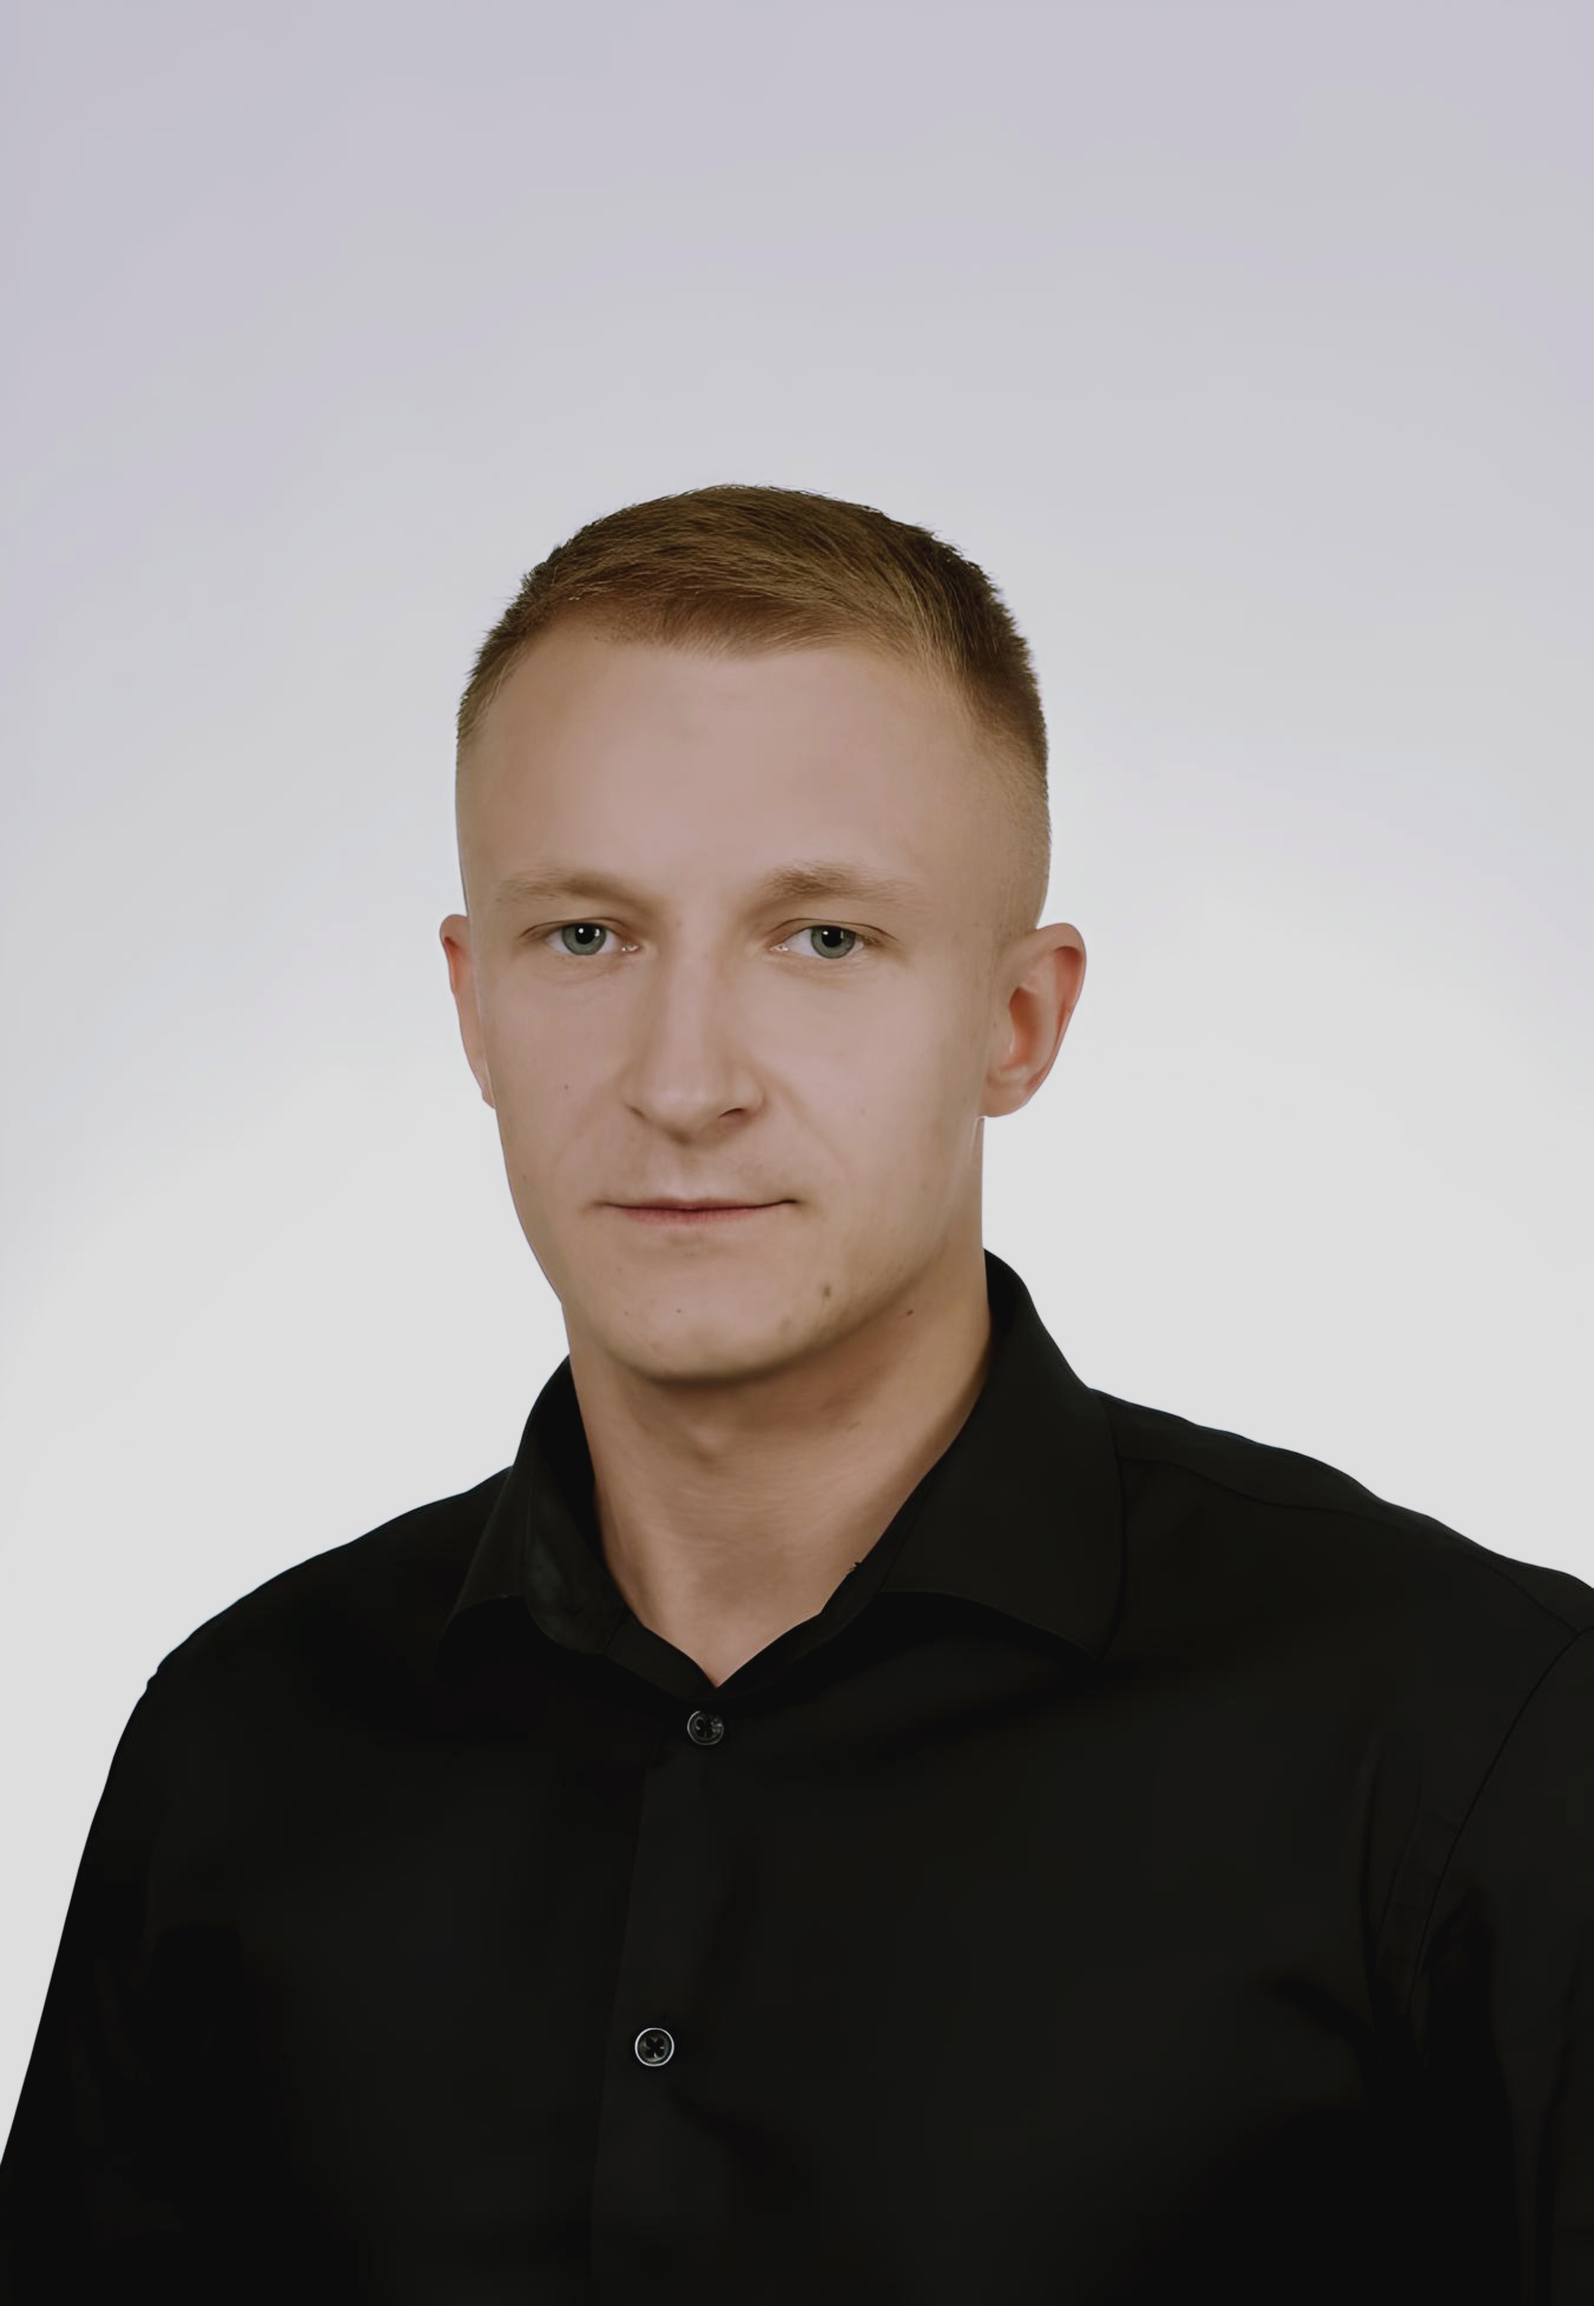
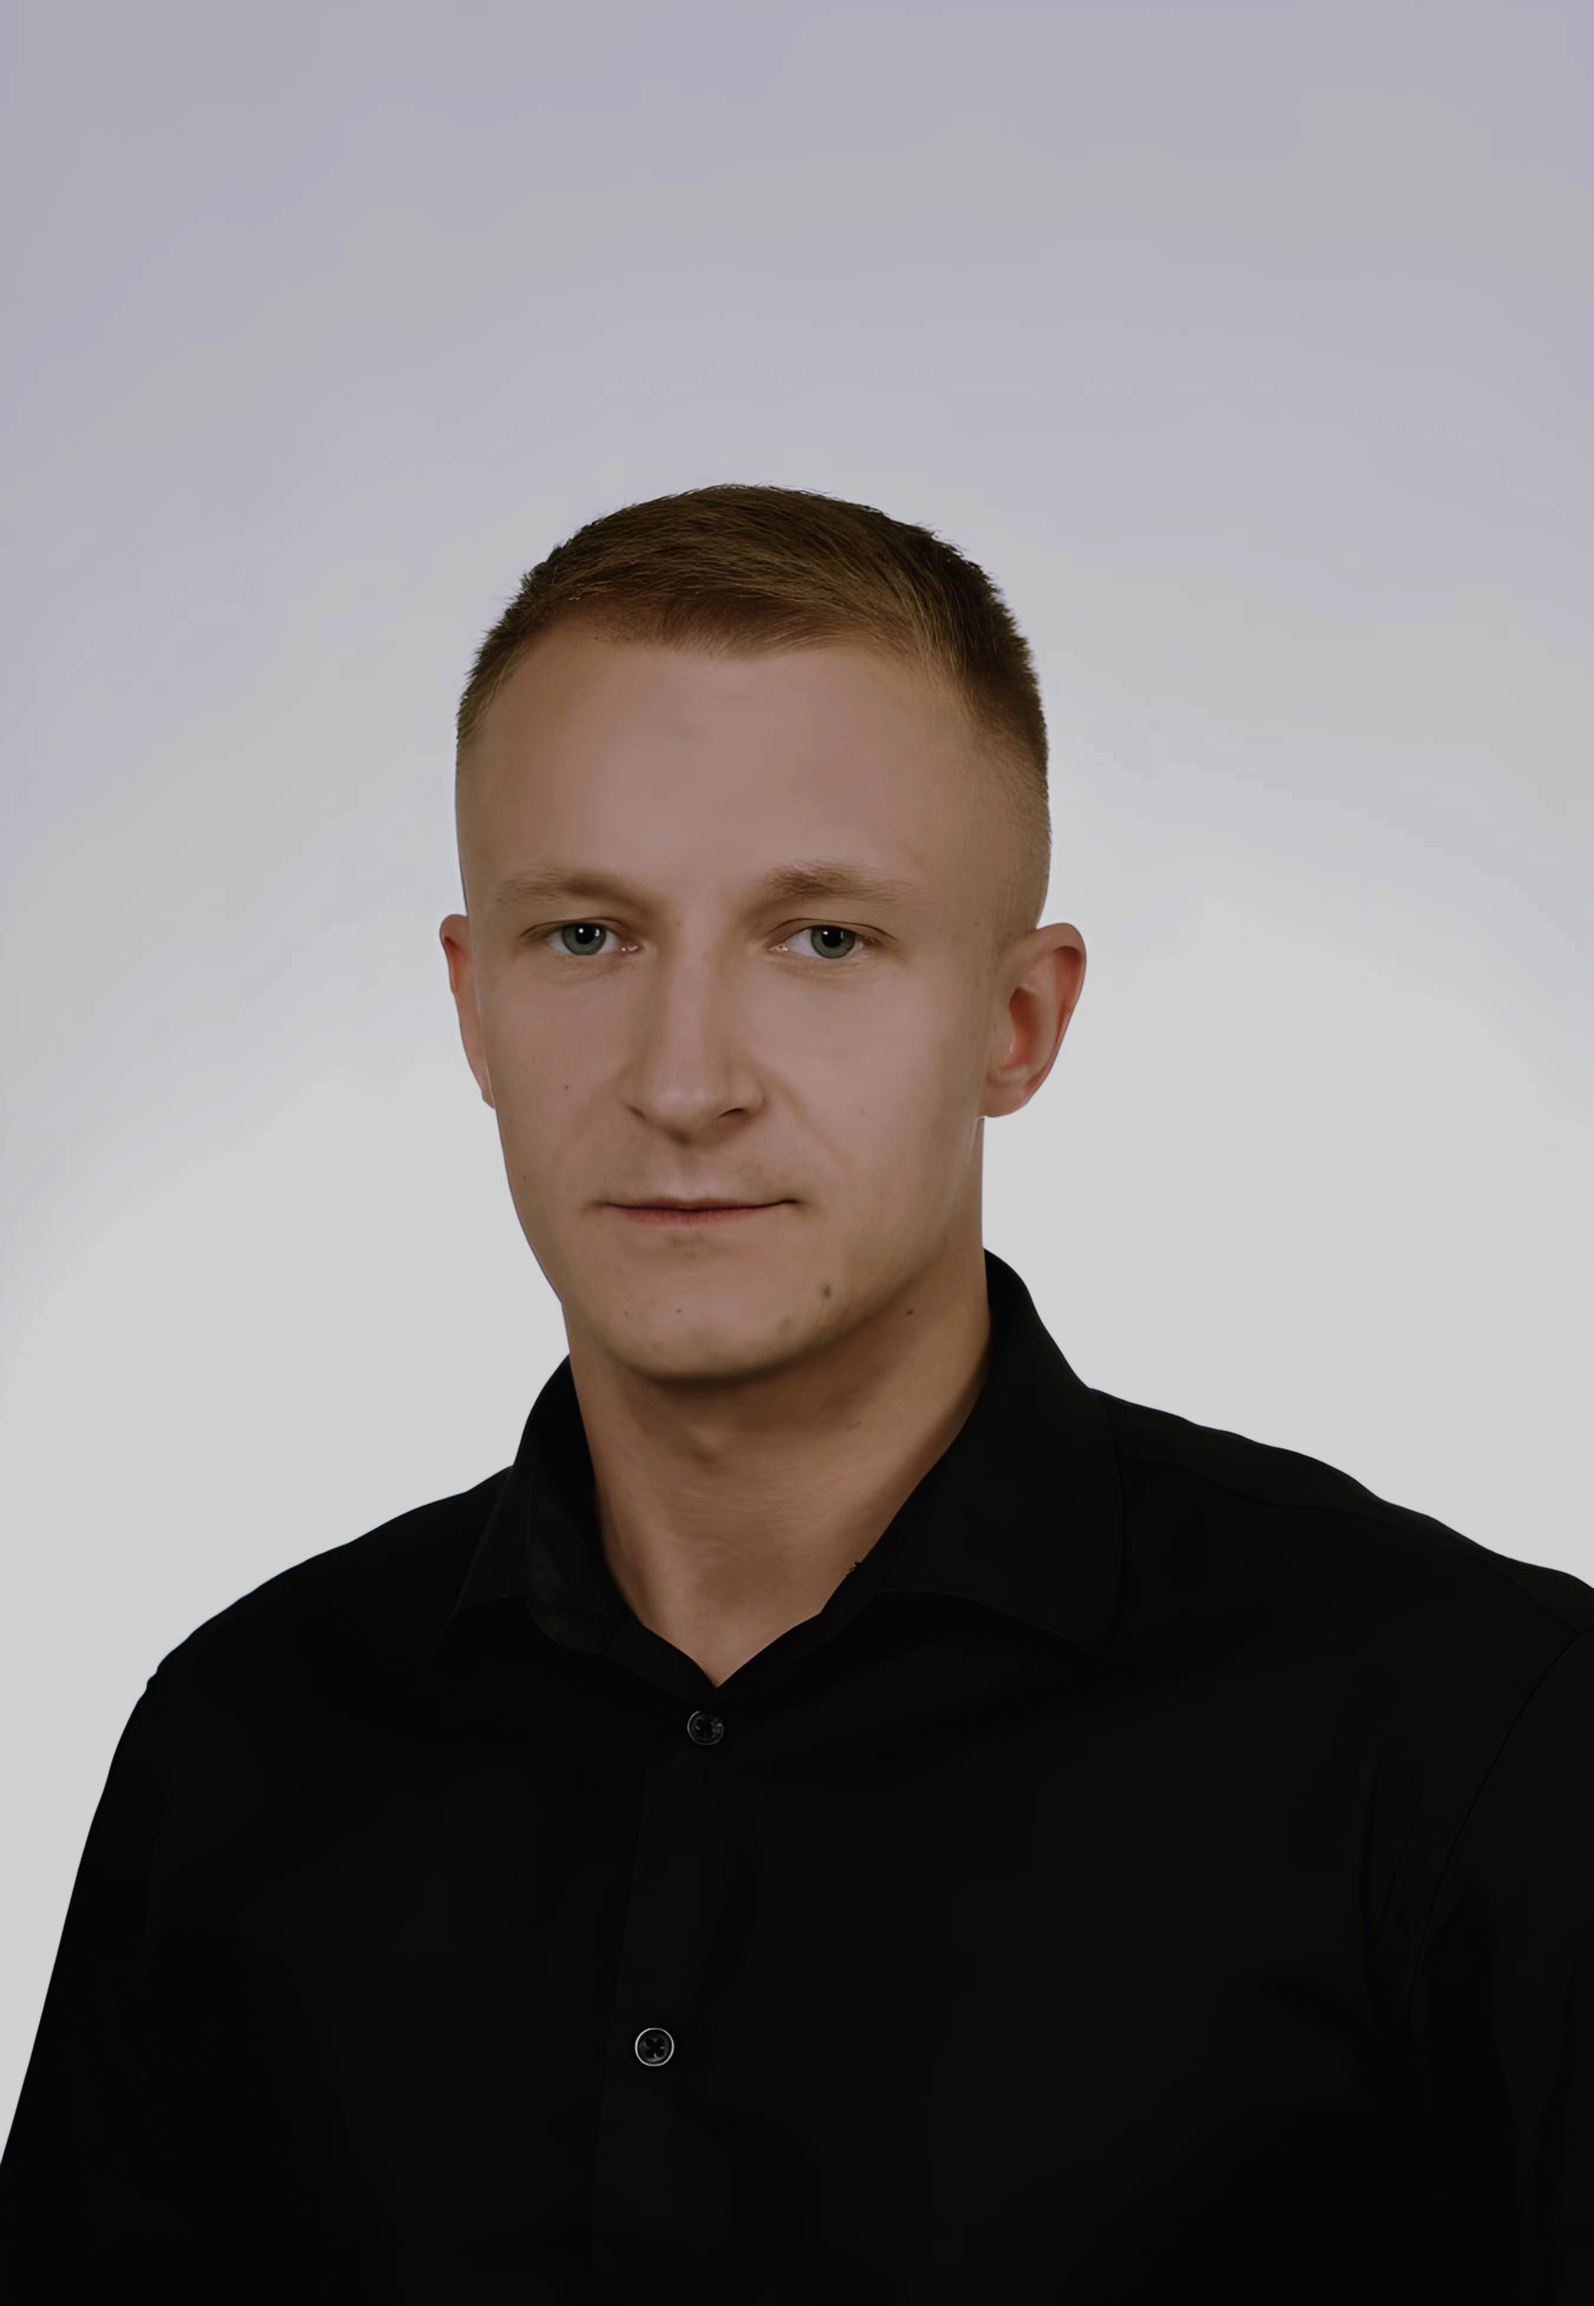
finish amination card

Changed region(s): [[0.2799, 0.1875, 0.6843, 0.75]]

diff --git a/index.html b/index.html
@@ -12,15 +12,16 @@
     <div class="nav-container">
         <h2 class="title">Port<span>folio</span></h2>
         <ul>
-            <li>Home</li>
-            <li>About</li>
-            <li>Projects</li>
-            <li>Contact</li>
+            <li><a href="#section-1">Home</a></li>
+            <li><a href="#section-2">About</a></li>
+            <li><a href="#section-3">Projects</a></li>
+            <li><a href="#section-4">Contact</a></li>
+            
         </ul>
     </div>
   </header>
   <!-- Home section -->
-    <section>
+    <section id="section-1">
       <div class="home-container">
         <div class="intorduce">
           <h2>Hello<br><span>My name is</span><br>Bartłomiej Pawlik <br>And I`m <span>Web Deweloper</span></h2>
@@ -33,7 +34,7 @@
     </section>
 <!-- About section -->
 
-<section>
+<section id="section-2">
   <div class="about-section">
     <div class="img-container">
       <img width="597px" height="600px" src="imgs/About.png" alt="">
@@ -50,7 +51,7 @@
   </div>
 </section>
 <!-- Projects section -->
-<section>
+<section id="section-3">
   <div class="project-section">
     <div class="project-titles">
       <h2 class="title"><span>My</span> Projects</h2>
@@ -77,37 +78,77 @@
       <a><i class="fa-solid fa-angles-right"></i></a>
 
     </div>
+    
   </div>
+  
 </section>
 
 <!-- Contact section -->
-<section>
+
+<section id="section-4">
+
  <div class="container">
   <div class="title-contact"> <h2 >Contact Me</h2></div>
+  
+
   <div class="contact-section">  
     <div class="img-container">
-      <img height="597px" width="600px" src="imgs/home.jpg" alt="">
+      <img height="597px" width="600px" src="imgs/contact1.jpg" alt="">
     </div>
+  
     <div class="contact-container">  
-      <div class="github panel">
-        <i class="fa-brands fa-github"></i>
-        <a href="https://github.com/BartekPawlik?tab=repositories"></a>
+      <div class="card">
+        <div class="card-inner">
+          <div class="card-face card-face-front"> 
+            <i class="fa-brands fa-github"></i>
+          </div>
+          <div class="card-face card-face-back">s
+            <!-- <a href="https://github.com/BartekPawlik?tab=repositories">My<br>Github</a> -->
+           </div>
+          </div>
       </div>
-      <div class="email panel">
-        <i class="fa-solid fa-envelope"></i>
+     
+    <div class="card">
+      <div class="card-inner">
+        <div class="card-face card-face-front">
+          <i class="fa-solid fa-envelope"></i>
+           </div>
+           <div class="card-face card-face-back">s
         <!-- <p>pawlikbartlomiej98@gmail.com</p> -->
-         </div>
-         
-      <div class="linkedin panel">
+           </div>
+       </div> 
+    </div>
+
+    
+    
+    <div class="card">
+      <div class="card-inner">
+        <div class="card-face card-face-front">
         <i class="fa-brands fa-linkedin"></i>
-        <a href="https://www.linkedin.com/in/bartek-pawlik-b45956271/"></a>
+     </div>
+     <div class="card-face card-face-back">
+      <!-- <a href="https://www.linkedin.com/in/bartek-pawlik-b45956271/">MY<br>Linkdin</a> -->
+
+     </div>
+    </div>
+         
+    
+
 
       </div>
-
-      <div class="phone panel">
-        <i class="fa-solid fa-phone"></i>
-        <!-- <p>+48570435892</p> -->
+      <div class="card">
+        <div class="card-inner">
+          <div class="card-face card-face-front">
+            <i class="fa-solid fa-phone"></i>
+          </div>
+          <div class="card-face card-face-back">s
+          <!-- <p>+48570435892</p> -->
+            
+          </div>
+        </div>
       </div>
+
+  
       
     </div>
 
@@ -116,10 +157,11 @@
  
     
     
+    
   
 </section>
 
-<section>
+<section >
   <div class="footer-section">
     <div class="box-container">s</div>
   </div>

diff --git a/style.scss b/style.scss
@@ -7,6 +7,10 @@
     justify-content: space-between;
     align-items: center;
 }
+html{
+    scroll-behavior: smooth;
+    scroll-padding-top: 12rem;
+}
 
 @mixin flexbox{
     display: flex;
@@ -20,6 +24,9 @@
     margin: 0;
     background-color: black;
     font-family: sans-serif;
+}
+a{
+    text-decoration: none;
 }
 body{
     width: 100%;
@@ -53,10 +60,13 @@ section{
             margin: 10px;
             font-size: 2rem;
             cursor: pointer;
+         a{
             transition: 0.2s ease-in-out;
+            color: white;
             &:hover{
                 color: crimson;
             }
+         }
         }
     }
 }
@@ -240,38 +250,58 @@ section{
                 gap: 15px;
 
                
-                .panel{
-                    width: 300px;
-                    height: 300px;
-                    display: flex;          
-                    flex-direction: column;
-                    justify-content: center;
-                    align-items: center;
-                    border-radius: 0px;
-                    text-decoration: none;
-                    font-size: 1.6rem;
-                    transition: 0.2s ease-in-out;
-                    background-color: crimson;
+                .card-inner{
+                    width: 100%;
+                    height: 100%;
+                    transition: transform 1s;
+                    transform-style: preserve-3d;
                     cursor: pointer;
-                 
+                    position: relative;
+                    
+                    
                     
                    
-                    p,i,a{
-                        font-size: 3rem;
-                        background-color: transparent;
-                        background-color: transparent;
-                        text-decoration: none;
-                       color: white;
-                        padding: 2px;
-                        background-color: inherit;
-                    }
-                   
+                    
+                    
+                    
+                    
+                 
+                      .card-face {
+                        position: absolute;
+                        width: 100%;
+                        height: 100%;
+                        -webkit-backface-visibility: hidden;
+                        backface-visibility: hidden;
+                        overflow: hidden;
+                        border-radius: 16px;
+                        box-shadow: 0px 3px 18px 3px rgba(255, 0, 0, 0.2);
+                      }
+                 
+                      .card-face-front {
+                        background-color: crimson;
+                        display: flex;
+                        align-items: center;
+                        justify-content: center;
+                      }
+                      .card-face-back{
+                        background-color: gray;
+                        transform: rotateY(180deg);
+                      }
                   }
                 
            
               
              
-              
+                  p,i,a{
+                    font-size: 3rem;
+                    background-color: transparent;
+                    background-color: transparent;
+                    text-decoration: none;
+                   color: white;
+                    padding: 2px;
+                    background-color: inherit;
+                }
+               
             }
             img{
                 border-radius: 10px;
@@ -281,6 +311,9 @@ section{
    }
  
 
+   .is-flipped {
+    transform: rotateY(180deg);
+  }
 
 
    .footer-section{

diff --git a/style.css b/style.css
@@ -1,9 +1,18 @@
+html {
+  scroll-behavior: smooth;
+  scroll-padding-top: 12rem;
+}
+
 * {
   box-sizing: border-box;
   padding: 0;
   margin: 0;
   background-color: black;
   font-family: sans-serif;
+}
+
+a {
+  text-decoration: none;
 }
 
 body {
@@ -37,9 +46,12 @@ section {
   margin: 10px;
   font-size: 2rem;
   cursor: pointer;
-  transition: 0.2s ease-in-out;
 }
-.nav-container ul li:hover {
+.nav-container ul li a {
+  transition: 0.2s ease-in-out;
+  color: white;
+}
+.nav-container ul li a:hover {
   color: crimson;
 }
 
@@ -215,21 +227,34 @@ section {
   font-size: 1rem;
   gap: 15px;
 }
-.container .contact-section .contact-container .panel {
-  width: 300px;
-  height: 300px;
-  display: flex;
-  flex-direction: column;
-  justify-content: center;
-  align-items: center;
-  border-radius: 0px;
-  text-decoration: none;
-  font-size: 1.6rem;
-  transition: 0.2s ease-in-out;
-  background-color: crimson;
+.container .contact-section .contact-container .card-inner {
+  width: 100%;
+  height: 100%;
+  transition: transform 1s;
+  transform-style: preserve-3d;
   cursor: pointer;
+  position: relative;
 }
-.container .contact-section .contact-container .panel p, .container .contact-section .contact-container .panel i, .container .contact-section .contact-container .panel a {
+.container .contact-section .contact-container .card-inner .card-face {
+  position: absolute;
+  width: 100%;
+  height: 100%;
+  backface-visibility: hidden;
+  overflow: hidden;
+  border-radius: 16px;
+  box-shadow: 0px 3px 18px 3px rgba(255, 0, 0, 0.2);
+}
+.container .contact-section .contact-container .card-inner .card-face-front {
+  background-color: crimson;
+  display: flex;
+  align-items: center;
+  justify-content: center;
+}
+.container .contact-section .contact-container .card-inner .card-face-back {
+  background-color: gray;
+  transform: rotateY(180deg);
+}
+.container .contact-section .contact-container p, .container .contact-section .contact-container i, .container .contact-section .contact-container a {
   font-size: 3rem;
   background-color: transparent;
   background-color: transparent;
@@ -241,6 +266,10 @@ section {
 .container .contact-section img {
   border-radius: 10px;
   border: 3px solid crimson;
+}
+
+.is-flipped {
+  transform: rotateY(180deg);
 }
 
 .footer-section .box-container {

diff --git a/app.js b/app.js
@@ -37,7 +37,8 @@ const leftArrow = document.querySelector(".fa-angles-left")
 const projectbox = document.querySelector(".imgs-container")
 const projectTitle = document.querySelector(".project-title")
 const descs = document.querySelector('.desc')
-const panels = document.querySelectorAll('.panel')
+const panels = document.querySelectorAll('.card-inner')
+
 let px = 701
 let sum = 0
 let pictureNumber = 0
@@ -87,7 +88,8 @@ function checkInfo(){
 panels.forEach(panel =>{
     panel.addEventListener("click", () =>{
        this.panel = panel
-       console.log(panel)
+
+       panel.classList.toggle('is-fliped')
     })
 })
 
